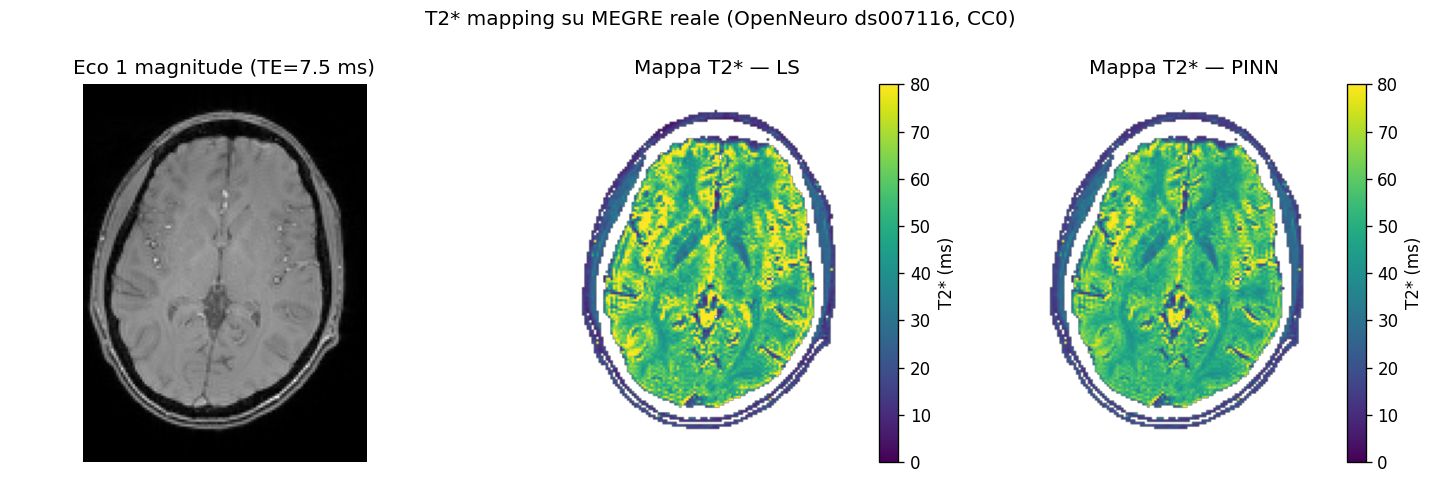
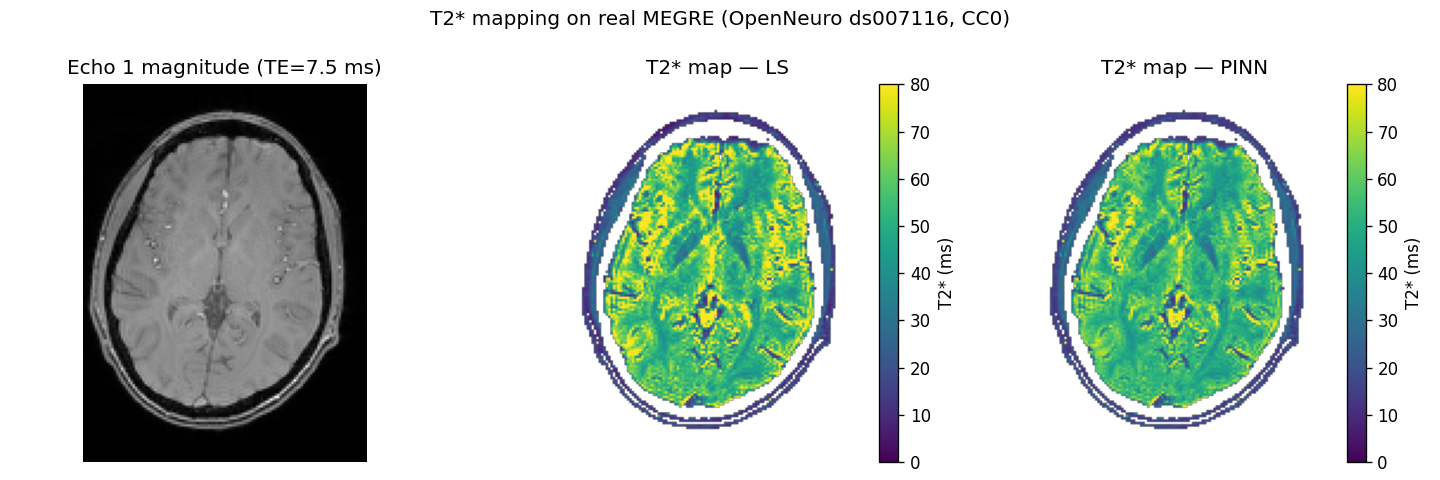
chore: regenerate results and figures with English labels; update docs to the new run

diff --git a/README.md b/README.md
@@ -94,9 +94,9 @@ seed=0, device **CPU**. Actual numbers from one run of `scripts/evaluate.py`.
 
 | noise sigma | T2 MAE PINN (ms) | T2 MAE LS (ms) | RMSE PINN (ms) | RMSE LS (ms) | time PINN (s) | time LS (s) |
 |---|---|---|---|---|---|---|
-| 1.0 | 2.51 | **1.31** | 5.56 | **1.86** | 11.8 | 7.2 |
-| 3.0 | 4.59 | **3.96** | 6.88 | **5.70** | 24.5 | 34.8 |
-| 6.0 | **8.02** | 8.18 | **10.84** | 12.46 | 25.6 | 12.4 |
+| 1.0 | 2.51 | **1.31** | 5.56 | **1.86** | 3.7 | 4.2 |
+| 3.0 | 4.59 | **3.96** | 6.88 | **5.70** | 1.9 | 4.3 |
+| 6.0 | **8.02** | 8.18 | **10.84** | 12.46 | 2.0 | 4.6 |
 <!-- RESULTS_TABLE_END -->
 
 Reading the numbers:
